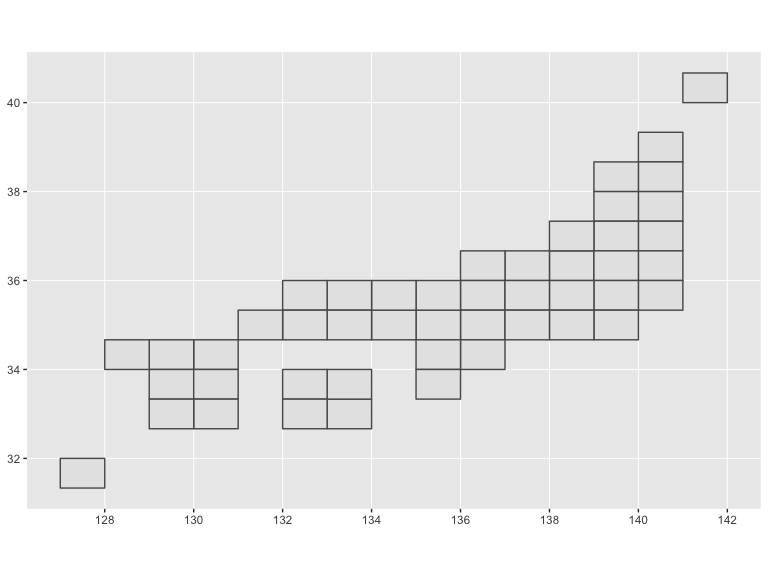
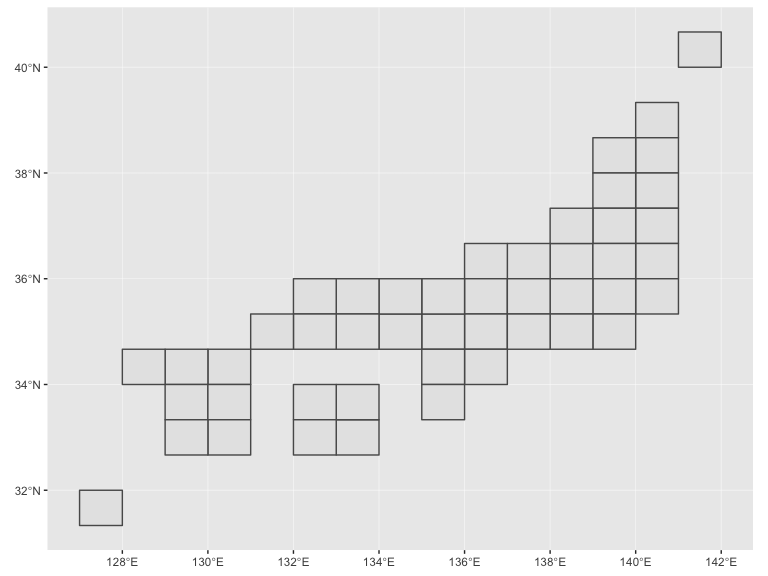
Update readme

Changed region(s): [[0.0, 0.0, 1.0, 1.0], [0.0938, 0.7812, 0.125, 0.8125]]

diff --git a/README.md b/README.md
@@ -1,25 +1,44 @@
 
 <!-- README.md is generated from README.Rmd. Please edit that file -->
-jpmesh <img src="man/figures/logo.png" align="right" width="80px" />
-====================================================================
 
-[![CRAN\_Status\_Badge](http://www.r-pkg.org/badges/version/jpmesh)](https://cran.r-project.org/package=jpmesh) [![CRAN RStudio mirror downloads](http://cranlogs.r-pkg.org/badges/jpmesh?color=FF5254)](https://cran.r-project.org/package=jpmesh) [![minimal R version](https://img.shields.io/badge/R%3E%3D-3.1.0-blue.svg)](https://cran.r-project.org/) [![Depsy](http://depsy.org/api/package/cran/jpmesh/badge.svg)](http://depsy.org/package/r/jpmesh) [![DOI](https://zenodo.org/badge/DOI/10.5281/zenodo.1185742.svg)](https://doi.org/10.5281/zenodo.1185742)
+# jpmesh <img src="man/figures/logo.png" align="right" width="80px" />
 
-[![Travis-CI Build Status](https://travis-ci.org/uribo/jpmesh.svg?branch=master)](https://travis-ci.org/uribo/jpmesh) [![wercker status](https://app.wercker.com/status/25d5f835882cf2185751e1d89370269f/s/master "wercker status")](https://app.wercker.com/project/byKey/25d5f835882cf2185751e1d89370269f) [![Coverage status](https://codecov.io/gh/uribo/jpmesh/branch/master/graph/badge.svg)](https://codecov.io/github/uribo/jpmesh?branch=master)
+[![CRAN\_Status\_Badge](http://www.r-pkg.org/badges/version/jpmesh)](https://cran.r-project.org/package=jpmesh)
+[![CRAN RStudio mirror
+downloads](http://cranlogs.r-pkg.org/badges/jpmesh?color=FF5254)](https://cran.r-project.org/package=jpmesh)
+[![minimal R
+version](https://img.shields.io/badge/R%3E%3D-3.1.0-blue.svg)](https://cran.r-project.org/)
+[![Depsy](http://depsy.org/api/package/cran/jpmesh/badge.svg)](http://depsy.org/package/r/jpmesh)
+[![DOI](https://zenodo.org/badge/DOI/10.5281/zenodo.1185742.svg)](https://doi.org/10.5281/zenodo.1185742)
 
-[![lifecycle](https://img.shields.io/badge/lifecycle-maturing-blue.svg?style=for-the-badge)](https://www.tidyverse.org/lifecycle/#maturing) [![npm](https://img.shields.io/npm/l/express.svg?style=for-the-badge)](https://github.com/uribo/jpmesh)
+[![Travis-CI Build
+Status](https://travis-ci.org/uribo/jpmesh.svg?branch=master)](https://travis-ci.org/uribo/jpmesh)
+[![Coverage
+status](https://codecov.io/gh/uribo/jpmesh/branch/master/graph/badge.svg)](https://codecov.io/github/uribo/jpmesh?branch=master)
 
-------------------------------------------------------------------------
+[![lifecycle](https://img.shields.io/badge/lifecycle-maturing-blue.svg?style=for-the-badge)](https://www.tidyverse.org/lifecycle/#maturing)
+[![npm](https://img.shields.io/npm/l/express.svg?style=for-the-badge)](https://github.com/uribo/jpmesh)
 
-Overview
---------
+-----
 
-The **jpmesh** package is a package that makes it easy to use "regional mesh (i.e. mesh code *JIS X 0410* )" used in Japan from R. Regional mesh is a code given when subdividing Japanese landscape into rectangular subregions by latitude and longitude. Depending on the accuracy of the code, different regional mesh length. By using the same mesh in statistical survey etc., it will become possible to handle the survey results of a large area in the area mesh unit.
+## Overview
 
-In jpmesh, mesh codes and latitude and longitude coordinates are compatible with mesh codes from the first region mesh, which is the standard region mesh, to the quarter regional mesh of the divided region mesh (from 80 km to 125 m). Features include "conversion from latitude and longitude to regional mesh", "acquisition of latitude and longitude from regional mesh", "mapping on prefecture unit and leaflet".
+The **jpmesh** package is a package that makes it easy to use “regional
+mesh (i.e. mesh code *JIS X 0410* )” used in Japan from R. Regional mesh
+is a code given when subdividing Japanese landscape into rectangular
+subregions by latitude and longitude. Depending on the accuracy of the
+code, different regional mesh length. By using the same mesh in
+statistical survey etc., it will become possible to handle the survey
+results of a large area in the area mesh unit.
 
-Installation
-------------
+In jpmesh, mesh codes and latitude and longitude coordinates are
+compatible with mesh codes from the first region mesh, which is the
+standard region mesh, to the quarter regional mesh of the divided region
+mesh (from 80 km to 125 m). Features include “conversion from latitude
+and longitude to regional mesh”, “acquisition of latitude and longitude
+from regional mesh”, “mapping on prefecture unit and leaflet”.
+
+## Installation
 
 From CRAN
 
@@ -31,12 +50,11 @@ For developers
 
 ``` r
 # the development version from GitHub:
-install.packages("devtools")
-devtools::install_github("uribo/jpmesh")
+install.packages("remotes")
+remotes::install_github("uribo/jpmesh")
 ```
 
-Usage
------
+## Usage
 
 ``` r
 library(jpmesh)
@@ -44,7 +62,8 @@ library(jpmesh)
 
 ### Convert mesh code to coordinate and vice versa
 
-Return the latitude and longitude for specifying the mesh range from the mesh code.
+Return the latitude and longitude for specifying the mesh range from the
+mesh code.
 
 ``` r
 mesh_to_coords(5133) # 80km
@@ -71,12 +90,12 @@ mesh_to_coords(5133778312) # 250m
 #> # A tibble: 1 x 4
 #>   lng_center lat_center lng_error lat_error
 #>        <dbl>      <dbl>     <dbl>     <dbl>
-#> 1       134.       34.7   0.00156   0.00104
+#> 1       134.       34.7  0.000781  0.000521
 mesh_to_coords(51337783123) # 125m
 #> # A tibble: 1 x 4
 #>   lng_center lat_center lng_error lat_error
 #>        <dbl>      <dbl>     <dbl>     <dbl>
-#> 1       134.       34.7  0.000781  0.000521
+#> 1       134.       34.7  0.000195  0.000130
 ```
 
 Find the mesh code within the range from latitude and longitude.
@@ -124,19 +143,24 @@ Drawing a simplified Japanese map based on the mesh code.
 
 ``` r
 library(sf)
-#> Linking to GEOS 3.5.1, GDAL 2.1.2, proj.4 4.9.3
-plot(jpnrect["abb_name"])
+#> Linking to GEOS 3.7.2, GDAL 2.4.1, PROJ 6.0.0
+plot(st_geometry(jpnrect))
 ```
 
-![](man/figures/README-jpn_simple_map_sf-1.png)
+![](man/figures/README-jpn_simple_map_sf-1.png)<!-- -->
 
 ``` r
-library(ggplot2) # 2.2.1.9000
+library(ggplot2)
+#> Registered S3 methods overwritten by 'ggplot2':
+#>   method         from 
+#>   [.quosures     rlang
+#>   c.quosures     rlang
+#>   print.quosures rlang
 ggplot() +
   geom_sf(data = jpnrect)
 ```
 
-![](man/figures/README-jpn_simple_map-1.png)
+![](man/figures/README-jpn_simple_map-1.png)<!-- -->
 
 Dataset of mesh code for prefectures.
 
@@ -147,14 +171,14 @@ administration_mesh(code = 33, type = "prefecture") %>%
   knitr::kable()
 ```
 
-| meshcode | geometry                                                                                            |
-|:---------|:----------------------------------------------------------------------------------------------------|
-| 513376   | list(c(133.75, 133.875, 133.875, 133.75, 133.75, 34.58333, 34.58333, 34.66667, 34.66667, 34.58333)) |
-| 513377   | list(c(133.875, 134, 134, 133.875, 133.875, 34.58333, 34.58333, 34.66667, 34.66667, 34.58333))      |
-| 523305   | list(c(133.625, 133.75, 133.75, 133.625, 133.625, 34.66667, 34.66667, 34.75, 34.75, 34.66667))      |
-| 523306   | list(c(133.75, 133.875, 133.875, 133.75, 133.75, 34.66667, 34.66667, 34.75, 34.75, 34.66667))       |
-| 523307   | list(c(133.875, 134, 134, 133.875, 133.875, 34.66667, 34.66667, 34.75, 34.75, 34.66667))            |
-| 523315   | list(c(133.625, 133.75, 133.75, 133.625, 133.625, 34.75, 34.75, 34.83333, 34.83333, 34.75))         |
+| meshcode | geometry                                                                                                                      |
+| :------- | :---------------------------------------------------------------------------------------------------------------------------- |
+| 513376   | list(c(133.75, 133.875, 133.875, 133.75, 133.75, 34.5833333333, 34.5833333333, 34.6666666667, 34.6666666667, 34.5833333333))  |
+| 513377   | list(c(133.875, 134, 134, 133.875, 133.875, 34.5833333333, 34.5833333333, 34.6666666667, 34.6666666667, 34.5833333333))       |
+| 523305   | list(c(133.625, 133.75, 133.75, 133.625, 133.625, 34.6666666667, 34.6666666667, 34.7499999999, 34.7499999999, 34.6666666667)) |
+| 523306   | list(c(133.75, 133.875, 133.875, 133.75, 133.75, 34.6666666667, 34.6666666667, 34.7499999999, 34.7499999999, 34.6666666667))  |
+| 523307   | list(c(133.875, 134, 134, 133.875, 133.875, 34.6666666667, 34.6666666667, 34.7499999999, 34.7499999999, 34.6666666667))       |
+| 523315   | list(c(133.625, 133.75, 133.75, 133.625, 133.625, 34.75, 34.75, 34.8333333334, 34.8333333334, 34.75))                         |
 
 Example)
 
@@ -176,7 +200,8 @@ ggplot() +
 
 ![](man/figures/README-mesh_pref33_map-1.png)
 
-Code of Conduct
----------------
+## Code of Conduct
 
-Please note that this project is released with a [Contributor Code of Conduct](.github/CODE_OF_CONDUCT.md). By participating in this project you agree to abide by its terms.
+Please note that this project is released with a [Contributor Code of
+Conduct](.github/CODE_OF_CONDUCT.md). By participating in this project
+you agree to abide by its terms.
